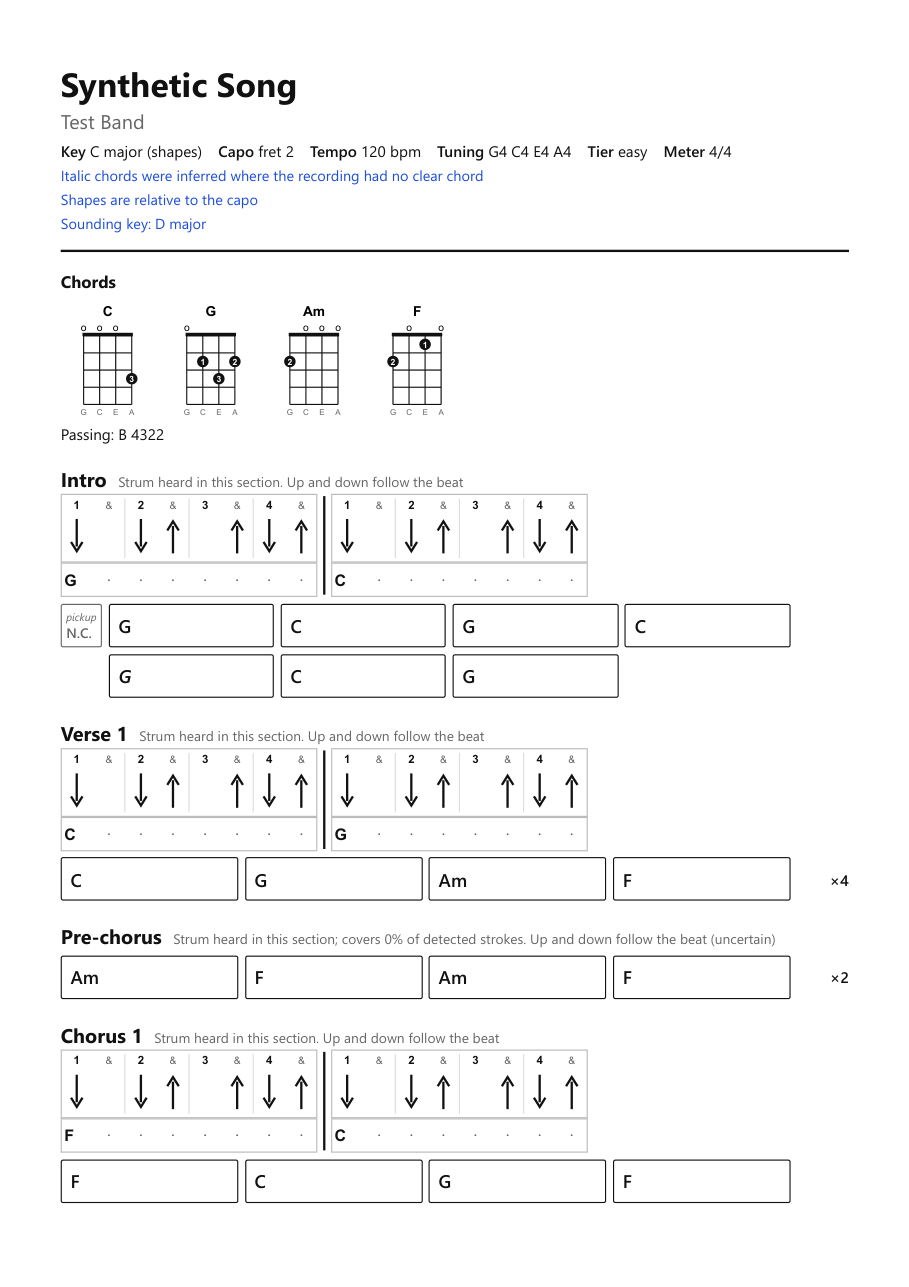
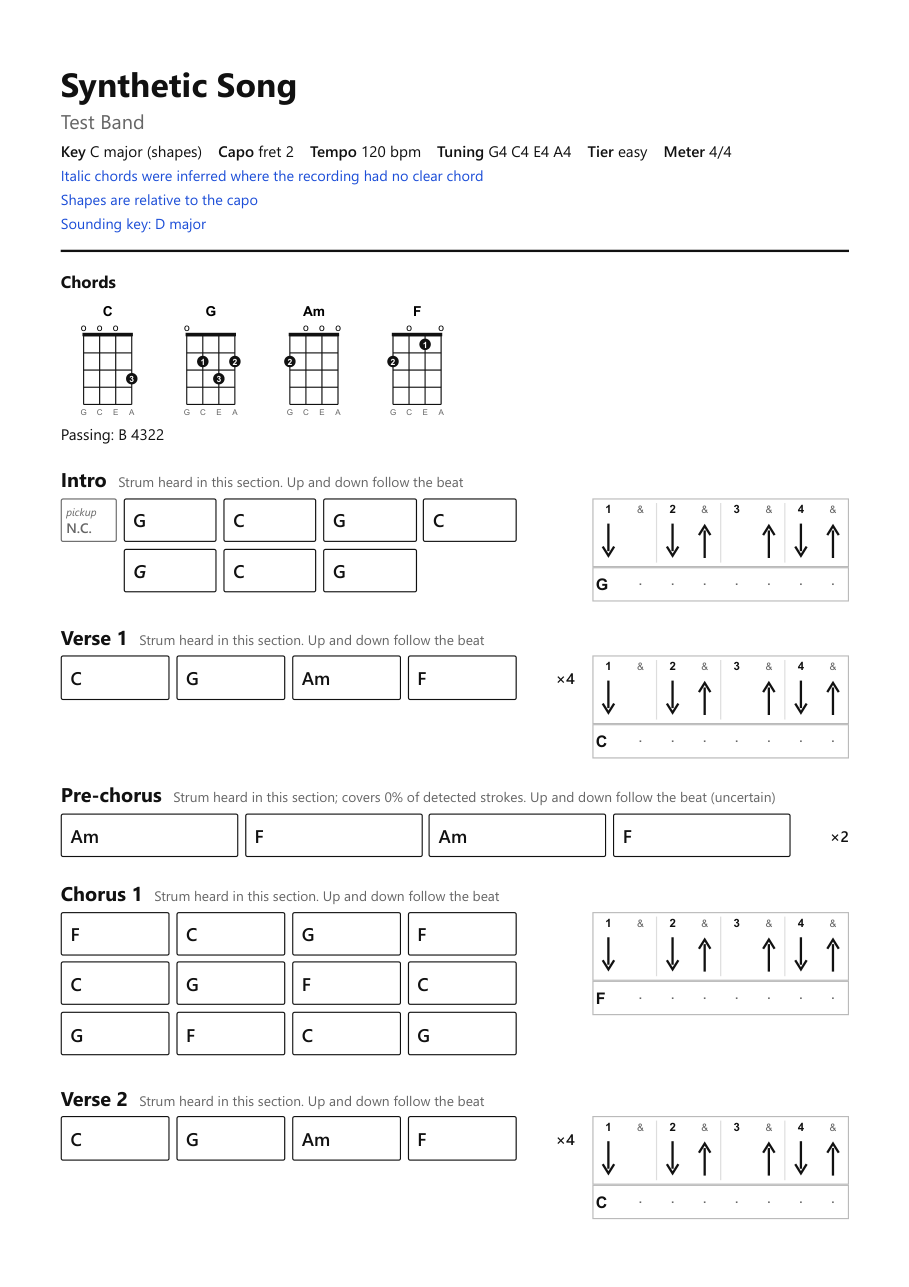
docs: validate version 1.5 on seven real songs and one blind song
The validation document records every spec 8 expectation with the
measured figure: sections 12, 7, 8, 8, 9, 8, 7 (All Fired Up's sandwich
merge did not fire), pages 2, 3, 2, 2, 2, 2, 2, the three certainty
flips exactly, the riff marker with two departures, the headers, the
power line and identical chords and onsets. The blind song (The Cars,
You Might Think) runs to a three-page sheet in D major.

README: the 1.5 page counts, the validation link, the Task 10 wording
fixes and a 1.5 sample sheet; the 1.4 spec gains a dated note on the
easy-tier power line.

diff --git a/docs/superpowers/specs/2026-10-04-v1-5-validation.md b/docs/superpowers/specs/2026-10-04-v1-5-validation.md
@@ -1,0 +1,202 @@
+# Version 1.5 validation on seven real songs and one blind song
+
+Date: 2026-10-04. Branch `worktree-v1-5` at `5cad67c` plus this commit (package version 0.6.0). Checks every expectation in section 8 of `2026-10-04-ukulele-tab-chain-v1-5-design.md` against the kept version 1.4 runs, and runs one song the chain had never seen. Bar and section numbers are 0-based, as in `grid.json`; a range written `55-61` ends before bar 61 unless it says "printed bars", which are inclusive. "Grid section" means a section of `grid.json`; "planned section" means a section of the 1.5 section plan, which is what the sheet prints.
+
+## Runs and baselines
+
+The seven version 1.4 run folders under `runs\` were the baseline. Before any re-run, `02_grid` to `07_render`, `manifest.json` and `source_meta.json` of each were copied to `%TEMP%\youkelele-v15-validation\baseline\<folder>\`, with the output of `uv run youkelele evaluate <folder>` beside them. Then, one at a time, each folder was re-run in place with `uv run youkelele run "<source from its manifest>" --from <stage> --runs-dir C:\Users\gethi\sources\Youkelele\runs`; every source resolved to its own folder with no prompt. The blind song ran from ingest with the same `--runs-dir`. Every run exited 0. Each run's log is under `%TEMP%\youkelele-v15-validation\logs\`.
+
+| Song | Folder | From | Wall time of the command | Stage times from the manifest |
+|---|---|---|---:|---|
+| Summer of '69 | `summer-of-69` | strums | 12 s | arrange 0.2 s, score 0.1 s, render 1.0 s |
+| Chelsea Dagger | `chelsea-dagger` | strums | 13 s | arrange 0.2 s, score 0.1 s, render 1.0 s |
+| Pour Some Sugar On Me | `pour-some-sugar-on-me` | strums | 13 s | arrange 0.3 s, score 0.1 s, render 0.9 s |
+| Wet Leg "mangetout" | `mangetout` | strums | 11 s | arrange 0.2 s, score 0.1 s, render 1.0 s |
+| David Bowie "Fame" | `fame` | strums | 11 s | arrange 0.2 s, score 0.1 s, render 1.0 s |
+| Pat Benatar "All Fired Up" | `all-fired-up` | strums | 13 s | arrange 0.3 s, score 0.1 s, render 1.0 s |
+| INXS "Need You Tonight" | `need-you-tonight` | harmony | 85 s | strums 5.1 s, arrange 0.2 s, score 0.1 s, render 1.0 s |
+| The Cars "You Might Think" (blind) | `the-cars-you-might-think` | ingest | 304 s | separate 239.4 s, grid 18.2 s, harmony 23.8 s, strums 5.4 s, arrange 0.4 s, score 0.1 s, render 0.9 s; ingest done to render done 288.2 s (audio 2.85 MiB) |
+
+The wall time includes `uv run` starting Python; the first stage of a partial re-run has no start stamp, so its own time is inside the wall time only. Every manifest records version 0.6.0 for each stage that ran: strums to render on six folders, harmony to render on Need You Tonight, all eight stages on the blind song. The stages that were not re-run keep their 0.5.0 stamps, as they should.
+
+Measurement: `evaluate` on all eight folders and `evaluate <baseline> --compare <folder>` on the seven; a script (`measure.py`) that compares `grid.json`, the chord events, the key and `strums.json` baseline against new, bar by bar, prints each planned section with its members and the 1.4 pattern of its longest member, and applies the 1.5 certainty rule (the stage's own `section_summary` and `structure_test`, seeded as the stage seeds them) to every 1.4 grid section on both the 1.4 and the 1.5 onsets; page counts from the PDFs; every page of all eight sheets rasterised with PyMuPDF and looked at. `compare_runs` pairs sections by position, so on the two songs whose plan merges sections (Wet Leg, All Fired Up) its rows after the first merge compare different sections; the script pairs each planned section with its longest member instead. All Fired Up was also re-run from strums a second time: `strums.json` and `score.json` were byte-identical to the first re-run (A9).
+
+## Expectations from spec section 8
+
+Written before the runs, as the spec states them; checked after.
+
+| Expectation | Met? | Figure |
+|---|---|---|
+| Section counts 12, 7, 8, 8, 9, 6, 7 | **No** | 12, 7, 8, 8, 9, **8**, 7. All Fired Up merged 13 grid sections into 8, not 6: the sandwich merge of 110-132 did not fire (see All Fired Up below). Wet Leg merged 9 into 8 as expected |
+| All Fired Up's merged Verse 1 prints 29 to 49 with `DUDUDUDU`, certain | Yes | Planned 28-49 (grid 1 and 2), shifted one bar by phrase alignment, printed bars 29 to 48; pattern `DUDUDUDU` from its longest member 33-49, confidence 0.555, full vote at strike density 0.672 (at least 0.6), certain |
+| Pages 2, 3, 2, 2, 2, at most 3, 2 | Yes | 2, 3, 2, 2, 2, 2, 2 (1.4: 3, 3, 2, 3, 3, 4, 2). Twenty pages become fifteen |
+| Certainty flips exactly Summer of '69 53-58, All Fired Up 55-61 and 128-132, and no other | Yes | On the 1.4 grid sections the 1.5 rule flips exactly these three, on the 1.4 onsets and on the 1.5 onsets alike: p 0.328, 0.065 and 0.207 (the spec measured 0.332, 0.064 and 0.208). Every other grid section on the seven songs keeps its 1.4 state. How they print: Summer of '69's Verse 3 (53-58) prints uncertain; All Fired Up's 128-132 prints uncertain as its own Chorus 3 (the sandwich did not absorb it); All Fired Up's 55-61 is absorbed into the merged Verse 2 (55-110), whose strip comes from its longest member 61-90 (`D-D-D-DU`, p 0.001, certain), so that flip does not reach the sheet |
+| Riff marker on every Fame section and every Need You Tonight section with its own pattern; on the recorded list; nowhere else; merged sections take their longest member's flag | **No** | Fame 9 of 9. Need You Tonight: the five sung sections and the Outro 79-86 are marked; the **Intro 0-13 is not** (entropy 0.862, single share 0.444), though it has its own pattern. Recorded list: Summer of '69 0-4 and 4-19, Wet Leg 0-5 and 100-108, All Fired Up Verse 1 (longest 33-49), Verse 2 (longest 61-90) and Chorus 2 (110-124) are marked; **All Fired Up Chorus 1 (49-55) is not** (0.806 and 0.433 against 0.788 and 0.625 in `riff-thresholds.md`). Nothing outside the list, Fame and Need You Tonight is marked. See "Riff marker" below |
+| Headers unchanged except Need You Tonight "F major (or C major)" | Yes | Summer of '69 "D major", Chelsea Dagger "G major (or D major)", Pour Some Sugar On Me "A minor (shapes)" sounding "C# minor", Wet Leg "C major", Fame "D major (shapes)" sounding "F major", All Fired Up "G major", Need You Tonight "F major (or C major)" (1.4: "C major (or F major)"). Votes on Need You Tonight: score C, pair F, mix F, decided by the mix |
+| Power line on Pour Some Sugar On Me's easy sheet; no other sheet has one | Yes | "Am is a power chord (root and fifth) on the record; this sheet prints the triad." under the no-capo line, on Pour Some Sugar On Me only (also not on the blind song) |
+| Chords, beats, bars and onsets identical to 1.4 on the six re-run from strums | Yes | `grid.json` byte-identical on all seven; chord events identical (bar, beat, start, end, label, triad, filled, power) on all seven, Need You Tonight included; slots per bar, source and grid fit identical; `bar_onsets` identical in every bar of every song (the recall gate fired on the same sections, now counted as planned sections) |
+| Blind song `3dOx510kyOs` runs to a sheet with exit 0 | Yes | Exit 0, 304 s; key, sections, riff flags, certainty, pages and the power gates are recorded below |
+
+## Per song
+
+| Song | Planned sections (grid) | Pages 1.4 to 1.5 | Last page filled to | Strips beside, above | Flips | Riff marked | Header |
+|---|---|---|---:|---|---|---|---|
+| Summer of '69 | 12 (12) | 3 to 2 | 0.90 | 9, 0 | Verse 3 53-58 to uncertain | Intro 0-4, Verse 1 4-19 | D major |
+| Chelsea Dagger | 7 (7) | 3 to 3 | 0.34 | 3, 3 | none | none | G major (or D major) |
+| Pour Some Sugar On Me | 8 (8) | 2 to 2 | 0.76 | 0, 0 (all uncertain) | none | none | A minor (shapes), sounding C# minor |
+| Wet Leg "mangetout" | 8 (9) | 3 to 2 | 0.58 | 6, 1 | none | Verse 1 0-5, Chorus 3 100-108 | C major |
+| Fame | 9 (9) | 3 to 2 | 0.91 | 6, 3 | none | all nine | D major (shapes), sounding F major |
+| All Fired Up | 8 (13) | 4 to 2 | 0.89 | 3, 1 | 55-61 (absorbed), 128-132 (Chorus 3) to uncertain | Verse 1, Verse 2, Chorus 2 | G major |
+| Need You Tonight | 7 (7) | 2 to 2 | 0.59 | 2, 3 | none | the five sung sections and the Outro | F major (or C major) |
+
+"Last page filled to" is the lowest text on the last page as a share of the page height. No chord cell wraps on any page of the eight sheets (A16).
+
+### Summer of '69
+
+**Pages.** Page 1: header, seven diagrams, Intro and Verse 1 (both with the riff wording and mostly muted strips, `D-xx-xxx` and `xxxUxxxx`), Chorus 1, Verse 2, Chorus 2, every strip one bar beside the rows. Page 2: Verse 3 (uncertain, no strip), Bridge, Instrumental, Verse 4, Chorus 3, Verse 5 and Outro (uncertain).
+
+**Quality.** A page shorter, as the spec measured; every certain section's strip sits beside its rows. The opening guitar line marked as a riff is on the recorded list; whether it is one is a listening question. Verse 3 (53-58, `DU-UDUDU`, confidence 0.693) now prints uncertain because a five-bar section whose bars all look alike gives the shuffle test nothing to beat (p 0.328).
+
+### Chelsea Dagger
+
+**Pages.** Page 1: header with the hedge, seven diagrams, "Passing: B 4322", Intro (uncertain), Chorus 1 (strip beside), Verse 1 (two-bar strip above, its second bar changes from Em to Bm). Page 2: Verse 1 continued, Chorus 2 (beside), Verse 2 (two bars above), Instrumental (beside). Page 3: Chorus 3 (two bars above) and its rows, a third of the page.
+
+**Quality.** Unchanged in content. Three pages as the spec predicted: three of its six strips change chord inside a bar and stay above the rows.
+
+### Pour Some Sugar On Me
+
+**Pages.** Page 1: header, Am G C F, "Passing: D 2220", the no-capo line, then the power line, Intro, Verse 1, Chorus 1. Page 2: Verse 2, Chorus 2, Instrumental, Verse 3, Chorus 3.
+
+**Quality.** The default sheet now says the riff is a power chord, under the chord diagrams after the no-capo line, and still two pages. Every section stays uncertain; no section is marked riff (the two-guitar sections sit at single share 0.153 to 0.426, under 0.45).
+
+### Wet Leg "mangetout"
+
+**Pages.** Page 1: header, C F Dm, "Passing: C# 1114", Verse 1 (riff wording), Chorus 1, Verse 2, Chorus 2, all strips beside. Page 2: Verse 3, Verse 4 (58-100, the merged old Verse 4 and Verse 5, strip `DUDUxxDU` from 65-100), Chorus 3 (two-bar strip above, riff wording), Outro ("No strummed instrument detected").
+
+**Quality.** The merge the spec predicted: 58-65 joined 65-100 and prints as one Verse 4 with a ×9 repeat. A page shorter. Verse 1 and Chorus 3 carry the riff wording as recorded.
+
+### David Bowie "Fame"
+
+**Pages.** Page 1: header, Dm G D, passing and no-capo lines, Intro (two bars above), Verse 1, Instrumental 1, Verse 2 (beside). Page 2: Instrumental 2 (above), Chorus (beside), Verse 3 (above), Instrumental 3, Verse 4 (beside); nine tenths of the page.
+
+**Quality.** Every section reads "Riff heard in this section: strum the chord to this rhythm", which is what the ear said of this record. A page shorter. Patterns, confidence and certainty are as in 1.4.
+
+### Pat Benatar "All Fired Up"
+
+**Pages.** Page 1: header, Am G Em D, Intro (uncertain, 28 bars), Verse 1 (from printed bar 29, `DUDUDUDU` beside, riff wording), Chorus 1 (beside), Verse 2 (two-bar strip above: G, then D to G inside the bar). Page 2: Verse 2's rows continued (two rows repeat ×3), Chorus 2 (uncertain, riff wording), Verse 3 (124-128, uncertain), Chorus 3 (128-132, uncertain), Outro (beside).
+
+**Quality.** From four pages to two, and from eight verses and three choruses to Intro, Verse 1, Chorus 1, Verse 2, Chorus 2, Verse 3, Chorus 3, Outro. The plan is 0-28, 28-49 (grid 1, 2), 49-55, 55-110 (grid 4 to 8), 110-124, 124-128, 128-132, 132-156.
+
+**The miss.** The spec expected the sandwich rule to join 110-124, 124-128 and 128-132 into one Chorus 2. It did not fire: the fragment 124-128 is four bars of G, and the chorus after it, 128-132, plays only Em (128, 129) and D (130, 131), so the fragment's G is a triad that neighbour never plays (pair novelty 1.0 against 128-132, 0.0 against 110-124). The research table (`sections-by-chords.md` 3.8) says "Its G is in both"; that is true only if bar 132, the Outro's first bar (G), is counted, so the research most likely read the chorus range one bar too far. The code follows the rule as written; nothing was tuned. Two consequences: the sheet prints a four-bar Verse 3 and a four-bar Chorus 3 (both uncertain) where the spec expected one 22-bar Chorus 2, and 128-132's flip to uncertain shows on the sheet. The page count is still two.
+
+**The merged sections' patterns.** Verse 1 takes `DUDUDUDU` from 33-49 (ear-confirmed in 1.4); the absorbed 28-33 had printed `DUxxxUxU` in 1.4. Verse 2 takes `D-D-D-DU` from 61-90; its absorbed members printed `D-Dx-U-U` (55-61), `xUDxxxx-` (90-97, uncertain), `xxDxDxDx` (97-104) and `Dxxxxxxx` (104-110) in 1.4. Whether one pattern serves the whole of Verse 2 is the listening pass's question (clips below).
+
+### INXS "Need You Tonight"
+
+**Pages.** Page 1: header "Key F major (or C major)", C Eb F Cm, "Passing: Gm 0231", Intro (uncertain), Verse 1 (beside), Chorus 1 (two bars above), Verse 2 (two bars above). Page 2: Verse 2 continued, Chorus 2 (above), Verse 3 (beside), Outro (uncertain).
+
+**Quality.** The header now leads with the tonic the ear heard (F) and hedges the score rule's C. The chord rules disagreed (score C by 0.327; pair rule a tie that the chroma breaks for F) and the mix estimate (F) decided. Every sung section and the Outro carry the riff wording; the Intro does not (see below).
+
+## Riff marker
+
+Measured flags against the recorded list, by planned section:
+
+| Song | Marked | Expected | Agrees? |
+|---|---|---|---|
+| Summer of '69 | Intro 0-4 (0.611, 0.667), Verse 1 4-19 (0.693, 0.547) | the same | yes |
+| Chelsea Dagger | none | none | yes |
+| Pour Some Sugar On Me | none | none | yes |
+| Wet Leg | Verse 1 0-5 (0.795, 0.600), Chorus 3 100-108 (0.798, 0.561) | the same; Verse 4 takes 65-100's "no" | yes |
+| Fame | all nine (entropy 0.695 to 0.760, single share 0.466 to 0.629) | all nine | yes |
+| All Fired Up | Verse 1 (33-49: 0.670, 0.589), Verse 2 (61-90: 0.773, 0.500), Chorus 2 (110-124: 0.701, 0.500) | also Chorus 1 49-55 | **no**: Chorus 1 reads 0.806, 0.433 |
+| Need You Tonight | Verses 1 to 3, Choruses 1 and 2, Outro 79-86 (0.646, 0.630) | every section with its own pattern, which includes the Intro | **no**: the Intro reads 0.862, 0.444 |
+
+Two causes, neither tuned:
+
+- **All Fired Up 49-55.** `riff-thresholds.md` measured 0.788 and 0.625 on eight onsets. The stage now reads the section's onsets after the recall gate, which added strikes there (1.3 to 4.0 per bar), and the added onsets are mostly not single notes. The figures that moved are exactly the recall-boosted sections (33-49 went from 0.660 and 0.614 to 0.670 and 0.589; 61-90 from 0.729 and 0.721 to 0.773 and 0.500); 110-124, not boosted, is identical (0.701, 0.500). So the research measured the riff features on the onsets before the gate, and the stage measures them after it.
+- **Need You Tonight's Intro.** The research's truth rows for this song were the five sung sections (`riff-thresholds.md`, truth mapping), and its list of unlabelled riff rows named the Outro 79-86, not the Intro; the spec's wording "every Need You Tonight section with its own pattern" reaches the Intro, whose first eight bars are drums and voice (an ear fact) and whose pattern explains 18% of its strokes. The marker on the Outro is the research's twelfth unlabelled row: the spec's sentence "eight on All Fired Up" counts it with All Fired Up's seven.
+
+The one known miss stands: All Fired Up's ear-confirmed strum (33-49, now Verse 1) prints the riff wording, as A13 recorded; its instruction ("strum the chord to this rhythm") is still right there.
+
+## The blind song: The Cars "You Might Think"
+
+Source `https://www.youtube.com/watch?v=3dOx510kyOs`, raw title "The Cars - You Might Think (Official Music Video)", uploader "RHINO". Not listened to; the figures are recorded, not judged.
+
+| What | Recorded |
+|---|---|
+| Run | Exit 0, 304 s from the command to the sheet; folder `the-cars-you-might-think` |
+| Title and artist | Title "The Cars - You Might Think", artist "RHINO": the uploader is the record label and does not match the title's prefix, so the title rule left the prefix in the title and took the uploader as the artist. Both print on the sheet |
+| Tempo, bars | 134 bpm (136.4 detected, octave none), 101 bars, 4/4 |
+| Key | D major; header "Key C major (shapes)", "Capo fret 2", "Sounding key: D major"; not hedged |
+| Three votes | score D, pair D (by 0.124, not a tie), mix D: decided by agreement. Score margin 0.0505 over G, 0.0005 above `KEY_TIE_MARGIN` (0.05), so no close-call hedge; mode margin 0.382 |
+| Chords | D 59.1 s, G 50.2 s, A 43.8 s, Bm 23.3 s, N 3.1 s; printed C, F, G, Am at capo 2; no-capo line "D 2220, G 0232, A 2100, Bm 4222 (barre)"; 2 bars filled (italic) |
+| Power-chord gates | Did not fire. Of the four gates two fail: the key is major (the first gate), and the stems prefer major at D by 0.382 (the gate wants minor by 0.2). D is plain major for 59.1 s and minor for none, and holds 0.34 of chord time, so the other two would pass. No power line |
+| Sections | 10 grid sections, 10 planned (no merge; the song's one chord group holds every sung bar, one-loop share 1.00): Intro 0-11, Verse 1 11-24, Chorus 1 24-33, Verse 2 33-45, Chorus 2 45-52, Verse 3 52-68, Chorus 3 68-72, Instrumental 72-76, Verse 4 76-90, Chorus 4 90-101. Vocal runs (0, 11) and (71, 76) |
+| Strums | Eighth-note grid, guitar stem (ratio 0.36), grid fit 0.94, no recall boost |
+| Certainty | 9 of 10 certain. Eight are full `DUDUDUDU` votes passed on density (0.63 to 0.99); Chorus 3 `-UDUDUD-` passed the shuffle test (p 0.025); the Instrumental 72-76 (`DUD-DUDU`, confidence 0.750) failed it (p 0.067) and prints uncertain |
+| Riff flags | 8 of 10 marked, exactly the eight full-vote sections: every section except Chorus 3 and the Instrumental (entropy 0.691 to 0.793, single share 0.544 to 0.694) |
+| Strips | Seven two-bar strips above the rows (a chord changes inside a bar, F/G or Am/G, in each of those sections) and two one-bar strips beside |
+| Pages | 3, the last filled to 0.69 |
+
+**What cannot be verified without listening.** Whether the key is D major and not G (the score margin is the smallest of the eight songs and only just clears the hedge line); whether the guitar is a riff, as the marker says on eight sections, or a dense eighth-note strum read as single notes, as on All Fired Up's known miss (full votes at density up to 0.99 look like strumming); whether `DUDUDUDU` is what is played; whether Chorus 3 (four bars, half sung) and the Instrumental are real parts; the section names in general (the names rest on loudness, since verse and chorus share their chords).
+
+## Ear clips for the listening pass
+
+Under `%TEMP%\youkelele-ear-v15\<song>\`, made the way the 1.5 research's `make_clips.py` made them (`make_clips_v15.py` and `make_clips_extra.py` in the validation scratch folder). A `strum_` clip is the guitar stem over the bars named, with a click on every struck slot of the pattern named; each has an `onsets_` twin with clicks on the detected strokes instead. A `key_` clip is ten seconds of the mix from the loudest sung section, then a synthesised triad.
+
+| Clip | Tests |
+|---|---|
+| `all-fired-up\strum_verse1_longest_33-41.wav` | Verse 1's printed `DUDUDUDU` on its longest member (ear-accepted in 1.4; should still fit) |
+| `all-fired-up\strum_verse1_fragment_28-33.wav` | whether the absorbed five-bar fragment plays Verse 1's pattern too (A2, A4) |
+| `all-fired-up\strum_verse2_longest_61-69.wav` | Verse 2's printed `D-D-D-DU` on its longest member 61-90 |
+| `all-fired-up\strum_verse2_fragment_55-61.wav` | whether the absorbed 55-61 plays Verse 2's pattern (A2, A4) |
+| `all-fired-up\strum_verse2_fragment_90-97.wav` | whether the quietly sung 90-97 plays Verse 2's pattern (A4's named cost) |
+| `all-fired-up\strum_verse2_fragment_97-104.wav` | the same for 97-104 |
+| `all-fired-up\strum_verse2_fragment_104-110.wav` | the same for 104-110 |
+| `all-fired-up\strum_flipped_1-4pattern_55-61.wav` | the flip of 55-61: does its own 1.4 pattern `D-Dx-U-U` fit (the spec says no bar matches it) |
+| `all-fired-up\strum_flipped_chorus3_128-132.wav` | the flip of 128-132, now printed as Chorus 3: does `D---DUD-` fit (the spec thought the flip probably wrong) |
+| `summer-of-69\strum_flipped_verse3_53-58.wav` | the flip of Verse 3: does `DU-UDUDU` fit its five bars (the spec called the flip defensible) |
+| `the-cars-you-might-think\key_D_major.wav` | the header's D major against the mix |
+| `the-cars-you-might-think\key_G_major.wav` | the score rule's runner-up G, 0.0505 behind |
+| `the-cars-you-might-think\strum_certain_riff_planned5_52-60.wav` | Verse 3, the longest certain section, marked riff: does `DUDUDUDU` fit, and is it a riff or a strum |
+| `the-cars-you-might-think\strum_certain_riff_verse1_11-19.wav` | Verse 1, the most confident section (0.957), marked riff with a full vote: riff or strum |
+| `the-cars-you-might-think\strum_certain_strum_chorus3_68-72.wav` | Chorus 3, the only certain section not marked riff: does `-UDUDUD-` fit |
+
+## What to improve next
+
+Ranked by benefit to the person reading the sheet.
+
+1. **Read the title and artist when the uploader is a label.** Stage: ingest. Evidence: the blind song prints "The Cars - You Might Think" by "RHINO". A title of the form "<artist> - <title>" whose prefix does not match the uploader could still be split when the uploader is not a person (a label channel), with the prefix taken as the artist. The first thing on the sheet is wrong, on the one song the chain had not seen.
+2. **Keep the two-bar strip from costing a page on songs with many split bars.** Stage: render. Evidence: the blind song has seven two-bar strips above the rows, because `example_bars` swaps the second bar for any later bar that changes chord, so `strip_bars` keeps two bars whenever any struck bar of the section changes chord inside it (spec 5.1's prose says "one of the first two bars"; its code is what was built); it prints three pages. Chelsea Dagger keeps three pages for the same reason. A strip that keeps one bar unless one of the first two bars changes, as the prose said, would be the measured choice to try.
+3. **Decide the sandwich rule on its own evidence.** Stage: strums (section plan). Evidence: it did not fire on the one case it was designed from (All Fired Up 124-128 against 128-132), so the rule has fired on no song; All Fired Up prints a four-bar Verse 3 and a four-bar Chorus 3. Either the rule is dropped, or it is restated (for example against the union of both neighbours' chords) and measured again on every song before it is adopted.
+4. **Measure the riff features on the same onsets everywhere.** Stage: strums. Evidence: the recall gate's added onsets move the features on boosted sections (All Fired Up 49-55 lost its flag, 0.788 and 0.625 to 0.806 and 0.433), so the thresholds in spec 4.3 were set on onsets the stage no longer reads there. Either read the features on the detector's own onsets, or re-measure the bands on the gated onsets.
+5. **Listen to the blind song's riff marks.** Evidence: eight of ten sections marked riff with full eighth-note votes at density up to 0.99, the pattern of All Fired Up's known miss. If the ear says strum, the marker's false-positive rate on tight strumming is the next thing to fix, and the A13 bands rest on one counter-example fewer than they need.
+6. **Hedge a tonic call this close.** Stage: harmony. Evidence: the blind song's score margin is 0.0505 against a 0.05 line; all three votes agree on D, so nothing hedges. A margin this close to the line is a coin toss by measure even when the rules agree.
+7. **Pair sections by member in `compare_runs`.** Stage: tooling. Evidence: on Wet Leg and All Fired Up the compare rows after the first merge compare different sections; the plan's members say which 1.4 section each planned section came from.
+8. **Carried from 1.4**, unchanged: correcting late refrain boundaries, recovering sustained strums on sixteenth grids, and the mode hedge.
+
+Not ranked as faults: All Fired Up's 55-61 flip not reaching the sheet (the section is absorbed for naming, and its strip comes from 61-90 by design); the one-loop log line firing on Wet Leg, Fame, All Fired Up and the blind song at share 1.00 (spec 3.3 gives 0.96 as its example; the research's table gives 0.93 to 1.00 for the one-loop songs).
+
+## Assumptions after validation
+
+Status of spec section 9's assumptions after these runs; the ones this validation was asked to settle first, then the rest that it touched.
+
+| # | Assumption | Status now | Evidence |
+|---|---|---|---|
+| A2 | A same-label section under 8 bars that adds no chord is a fragment of its neighbour | **Measured on the runs**, unverified by ear | 6 merges by the fragment rule (Wet Leg 58-65; All Fired Up 28-33, 55-61, 90-97, 97-104, 104-110), none on the five other songs or the blind song; clips prepared |
+| A3 | A verse fragment between two choruses on their chords is chorus | **Refuted as measured** | The one case does not meet the rule: All Fired Up 124-128 (G) has pair novelty 1.0 against 128-132 (Em, D). The rule fired on no song |
+| A4 | A merged section's strip comes from its longest member | **Held as built**, unverified by ear | Verse 1 `DUDUDUDU` certain from 33-49; Verse 2 `D-D-D-DU` certain from 61-90; Wet Leg Verse 4 `DUDUxxDU` from 65-100. The fragments' own 1.4 patterns differ (see All Fired Up); clips prepared |
+| A5 | Phrase alignment behaves on the plan's spans as on grid spans | **Verified** | The only start that moved against 1.4 is All Fired Up's Verse 1, to 29 as predicted; the other shifted starts (Summer of '69 5, Chelsea Dagger 21, Wet Leg 6, Need You Tonight 49) are as in 1.4 |
+| A9 | Seeded shuffles make runs reproducible | **Verified** | All Fired Up re-run from strums twice: `strums.json` and `score.json` byte-identical |
+| A13 | The two riff features classify the ear-labelled sections as the ear did | **Measured again: 21 of 22**, with two departures from the recorded unlabelled list | The same known miss (All Fired Up 33-49). All Fired Up 49-55 is no longer marked because the stage reads the recall gate's onsets (0.806, 0.433); Need You Tonight's Intro is unmarked as the research found, though spec 8's wording expected it. The blind song is marked on eight of ten sections, unverified |
+| A14 | One bar is enough in the strip when no bar changes inside it | Unverified with a player | 31 one-bar strips beside the rows across the eight sheets; 18 sections keep two bars above |
+| A15 | Players accept differing cell widths between sections | Unverified | Seen on every sheet with both kinds of strip (for example All Fired Up page 1: Verse 1 and Chorus 1 narrow, Verse 2 wide) |
+| A16 | Cells as narrow as 18.8 mm hold every chord cell without wrapping | **Verified on eight sheets** | Every page of the eight sheets looked at: no cell wraps. Every two-chord cell sits in a section whose strip is above the rows or that has no strip; this holds nearly by construction, since a section with any struck bar that changes chord inside it keeps the two-bar strip above (see "What to improve next", item 2), so the narrow beside layout only ever holds one-chord cells |
+| A18 | Two of three rules name the right tonic when the chord rules disagree | **Verified on Need You Tonight**, and held on the blind song | Need You Tonight: score C, pair F, mix F, header "F major (or C major)", the tonic the ear heard. Blind: all three D. The other six were re-run from strums, so their `chords.json` is 1.4's and their headers rest on the stored-decision probe |
+| A21 | One extra legend line adds no page | **Verified** | Pour Some Sugar On Me prints the power line and stays at two pages |
+| A23 | The blind song exercises the power-chord gates and the riff marker | **Half refuted** | The riff marker fired (eight of ten sections). The power gates did not: the key is major, so the first gate fails before any other |
+| A8 | `FULL_VOTE_DENSITY` 0.6 separates real full votes from dense sprays | Measured, narrow, unchanged | The blind song's Verse 3 passes on density at 0.633; All Fired Up Verse 1 at 0.672 |
+| A10 | The sixteenth floor at 0.53 flips nothing | **Verified** | No section on the three sixteenth-grid songs (Pour Some Sugar On Me, Fame, Need You Tonight) changed state |
+| A22 | New defaulted fields keep 1.4 files loading | **Verified in use** | The six songs re-run from strums read 1.4 `chords.json` files without `pair_tonic` or votes and printed the 1.4 headers |
+
+The rest (A1, A6, A7, A11, A12, A17, A19, A20) were not touched by these runs beyond what the table above says, and keep their spec 9 status.

diff --git a/README.md b/README.md
@@ -4,15 +4,15 @@ Youkelele turns a song into a printable ukulele sheet. Give it a YouTube link or
 
 ## A sample sheet
 
-![Page 1 of a sample sheet: the title, a header line with key, capo, tempo and tuning, four chord diagrams, and the Intro, Verse 1, Pre-chorus and Chorus 1 sections, each with its chord grid and most with a two-bar strum strip above it.](docs/images/sample-sheet.png)
+![Page 1 of a sample sheet: the title, a header line with key, capo, tempo and tuning, four chord diagrams, and the Intro, Verse 1, Pre-chorus, Chorus 1 and Verse 2 sections, each with its chord grid on the left and, except the Pre-chorus, a one-bar strum strip beside the rows on the right.](docs/images/sample-sheet.png)
 
 *Page 1 of the sheet for "Synthetic Song", the project's own made-up test song (no real song's chart is published here).*
 
 *At the top, the header gives the key in ukulele shapes (C major), the capo (fret 2), the tempo (120 bpm), the tuning and the tier, with notes that italic chords were inferred, that shapes are relative to the capo and that the song sounds in D major. Below it are the diagrams for C, G, Am and F, and a passing B, named with its fret numbers but no diagram.*
 
-*Each section then opens with its two-bar worked example (down and up arrows over the counts 1 & 2 & 3 & 4 &, with the chord under the stroke it starts on), followed by its chord grid: one box per bar, a pickup bar marked as such, and a repeat count such as ×4 where rows repeat. The Pre-chorus has no strip because its pattern was too uncertain to print.*
+*Each section then has its chord grid on the left (one box per bar, a pickup bar marked as such, and a repeat count such as ×4 where rows repeat) and its one-bar worked example on the right: down and up arrows over the counts 1 & 2 & 3 & 4 &, with the chord under the stroke it starts on. A section in which a chord changes inside a bar shows two bars above its rows instead; none on this page does. The Pre-chorus has no strip because its pattern was too uncertain to print.*
 
-*This sample was made with version 1.4. From version 1.5 the worked example is one bar, set beside the section's rows, and only a section whose chord changes inside a bar keeps the two-bar strip above them.*
+*This sample was made with version 1.5.*
 
 ## Using it without coding (Windows)
 
@@ -139,16 +139,16 @@ Options for `run`. A run resumed with `--from` keeps the options saved in its `m
 - The recall gate works only on the eighth-note grid. A song whose strums fall on a sixteenth grid keeps the detector's onsets, so a sustained, distorted strum there can still print as a sparse pattern.
 - When one separated guitar stem holds two players, one strumming and one playing a riff over the chords, nothing measured tells them apart on a sixteenth-note grid: the section's confidence is held under the floor and the box prints as uncertain. Seventeen onset and pitch features were tried, and so was splitting the onsets by pitch register and taking the strum from the lower part; none separates the ear-rejected sections from the ear-accepted ones.
 - A strum pattern prints as certain only if it beats a shuffle test: the section's strikes and mutes are shuffled within each bar a thousand times, and the pattern must score better than all but 5 percent of the shuffled copies. This catches a noisy section whose vote only seems to fit. A pattern that strikes every slot cannot be tested that way, so it is judged on how dense the strumming is. The test does not change any printed pattern, only whether it is marked uncertain, and a section of four to six bars gives it little to work with.
-- A section marked "Riff heard in this section: strum the chord to this rhythm" has a guitar part of single notes, not chords. The pattern beside it is the rhythm of those notes, and the instruction is to strum the chord to it. The marker is a measured guess and is independent of the uncertain mark. A tight power-chord strum can read as a riff, because it has a riff's pitch content; the instruction is still right there, since the part is meant to be strummed. A few sections that are not riffs may carry the marker too.
-- Short sections with the same chords are merged. A verse or chorus under eight bars joins a neighbour of the same name that plays every chord it plays, and a short verse between two choruses on their chords joins them, so a song that loops one chord cycle prints fewer, longer sections than the grid found. The intro, instrumental, outro and bridge are never merged, and no section is renamed because of its chords. A merged section's strum pattern is taken from its longest part, not from all of it.
+- A section marked "Riff heard in this section: strum the chord to this rhythm" has a guitar part of single notes, not chords. The pattern beside it is the rhythm of those notes, and the instruction is to strum the chord to it. The marker is a measured guess and is independent of the uncertain mark. A tight power-chord strum can read as a riff, because it has a riff's pitch content; the instruction is still right there, since the part is meant to be strummed. Some sections that are not riffs may carry the marker too.
+- Short sections with the same chords are merged. A verse or chorus under eight bars joins a neighbour of the same name that is at least as long and plays every chord it plays, and a short verse between two choruses that play every chord it plays joins them as one chorus, so a song that loops one chord cycle prints fewer, longer sections than the grid found. The intro, instrumental, outro and bridge are never merged. The merge rules never rename a section on chord content alone: the only renames are the bridge rule's and the short verse that a sandwich merge folds into a chorus. A merged section's strum pattern is taken from its longest part, not from all of it.
 - Drum bleed can read as strums. On a separated stem, snare bleed can pass the onset and mute rules, so beats 2 and 4 show up as down strokes or muted `x` slots.
 - Section names are a best guess from repeating chord and sound patterns and from where the singing is. Sections are at least four bars long, so a genuine two-bar part is merged into its neighbour.
 - The key's tonic is chosen by three rules that vote. When they split two against one, the header follows the two and hedges the loser, for example "G major (or D major)"; a close call or a disagreement with the stems' own estimate is hedged as before. The hedge names a second possible key, with its own mode, but never the other mode of the same tonic. A song whose stems carry little harmony and whose tonic chord is ambiguous can get the wrong mode.
 - Inferred chords cover only bars whose harmonic stems clearly match one of the song's own chords. A lead line over the band still prints as N.C., and a faint guitar in a sparse verse can be filled with a chord the record may not have; inferred chords are italic so a reader can tell.
 - Phrase alignment only moves a section start one bar later. When the phrase starts a bar earlier, the rows still start mid-phrase.
-- Real songs print on two to four pages (of the seven measured, two print on two, four on three and one on four); a worked example that sits above the rows adds height to the page (the one-bar strip that sits beside the rows does not), and a song cut into many short sections runs longer. These counts were measured on version 1.4.
+- Real songs print on two or three pages (of the eight measured with version 1.5, six print on two and two on three); a worked example that sits above the rows adds height to the page (the one-bar strip that sits beside the rows does not), and a song cut into many short sections runs longer.
 - Verse and chorus are told apart by sound and repetition, not by chord content, so on a song cut into many short sections the same chord cycle can print under both names.
-- The power-chord mark (a raised 5 after the chord name) prints only in the full tier. The default easy sheet prints the triad and, under the legend, one line for each such chord: "<name> is a power chord (root and fifth) on the record; this sheet prints the triad." It has no raised 5.
+- The power-chord mark (a raised 5 after the chord name) prints only in the full tier. The default easy sheet prints the triad and, under the chord diagrams, one line for each such chord: "<name> is a power chord (root and fifth) on the record; this sheet prints the triad." It has no raised 5.
 - An artist or title of two or more words given wholly in capitals is printed in title case ("PAT BENATAR" as "Pat Benatar"); one word in capitals stays as written ("INXS").
 
 ## Project history
@@ -160,7 +160,7 @@ Each version has a design spec and a record of how it did on real songs, all und
 - 1.2: four-bar sections, inferred and passing chords, phrase-aligned starts, repeated rows printed once. [Spec](docs/superpowers/specs/2026-10-03-ukulele-tab-chain-v1-2-design.md); [validation](docs/superpowers/specs/2026-10-03-v1-2-validation.md).
 - 1.3: the measurement harness, a more reliable strum pattern, chord changes on the bar lines, the two-bar worked example. [Spec](docs/superpowers/specs/2026-10-04-ukulele-tab-chain-v1-3-design.md); [validation](docs/superpowers/specs/2026-10-04-v1-3-validation.md).
 - 1.4: the key from the chords with a hedge, power chords, section names from the vocals, the no-capo line, run folders named after the song, install and run scripts for non-coders, and this README. [Spec](docs/superpowers/specs/2026-10-04-ukulele-tab-chain-v1-4-design.md); [validation](docs/superpowers/specs/2026-10-04-v1-4-validation.md).
-- 1.5 (package version 0.6.0): short same-chord section fragments merged by a section plan, a shuffle test on strum certainty, a riff marker, a one-bar strip beside the rows, the key chosen by two of three rules with the loser hedged, and the power-chord line on the easy sheet. [Spec](docs/superpowers/specs/2026-10-04-ukulele-tab-chain-v1-5-design.md).
+- 1.5 (package version 0.6.0): short same-chord section fragments merged by a section plan, a shuffle test on strum certainty, a riff marker, a one-bar strip beside the rows, the key chosen by two of three rules with the loser hedged, and the power-chord line on the easy sheet. [Spec](docs/superpowers/specs/2026-10-04-ukulele-tab-chain-v1-5-design.md); [validation](docs/superpowers/specs/2026-10-04-v1-5-validation.md).
 
 The quality research behind versions 1.3 and 1.4 is in [docs/superpowers/research/2026-10-03-quality](docs/superpowers/research/2026-10-03-quality/README.md).
 

diff --git a/docs/superpowers/specs/2026-10-04-ukulele-tab-chain-v1-4-design.md b/docs/superpowers/specs/2026-10-04-ukulele-tab-chain-v1-4-design.md
@@ -76,7 +76,7 @@ The owner's daughter plays bass, does not code, and wants to try the tool. Today
 
 - **Display names by occurrence.** `Verse 1`, `Verse 2`, `Chorus`, `Instrumental 1`, `Bridge`, `Outro`; a label that occurs once carries no number; "Strum as in" references use the same display names.
 - **No-capo line.** When `capo > 0`, one line under the legend after the `Passing:` line: `Without a capo: C# 1114 (barre), F# 3124, B 4322 (barre), E 1402, A 2100, C#m 1444`, built from `arrangement.no_capo_alternative` with the fret formatter and the same dedupe as the diagrams, barre shapes marked. The arrange stage notes `capo_margin` and the per-capo scores in the manifest.
-- **Power-chord badge.** A cell whose chord has `power = True` prints the key's chord with a small raised 5 (`C#m` with the badge, `Am` with the badge under capo 4), and the legend gains one line per chord name, under the printed shape name the badge sits on: `C#m is a power chord on the record`. The line prints when any use of that chord is a power chord, so one real minor chord elsewhere in the song does not drop it; the badge stays on the power cells only. The easy tier prints the plain key's chord with no badge and no legend line.
+- **Power-chord badge.** A cell whose chord has `power = True` prints the key's chord with a small raised 5 (`C#m` with the badge, `Am` with the badge under capo 4), and the legend gains one line per chord name, under the printed shape name the badge sits on: `C#m is a power chord on the record`. The line prints when any use of that chord is a power chord, so one real minor chord elsewhere in the song does not drop it; the badge stays on the power cells only. The easy tier prints the plain key's chord with no badge and no legend line. (Note added 2026-10-04: from version 1.5 the easy tier prints a legend line for each power chord, still with no badge; see `2026-10-04-ukulele-tab-chain-v1-5-design.md` section 6.3.)
 - **Hedged key.** `Key: G major (or D major)`, the other key with its own mode (`A minor (or C major)`); under a capo, `Key: A major (or E major) (shapes)` and the sounding key hedged the same way.
 - **The strip skips unplayed bars.** `example_bars` takes the first two full bars with at least one detected strike in `bar_onsets`; the mid-bar-change substitution rule is unchanged; a section with no struck bars keeps the fallback (pattern over an N.C. row). Chelsea Dagger's first-chorus strip no longer shows bars 9 and 10, before the guitar enters.
 
